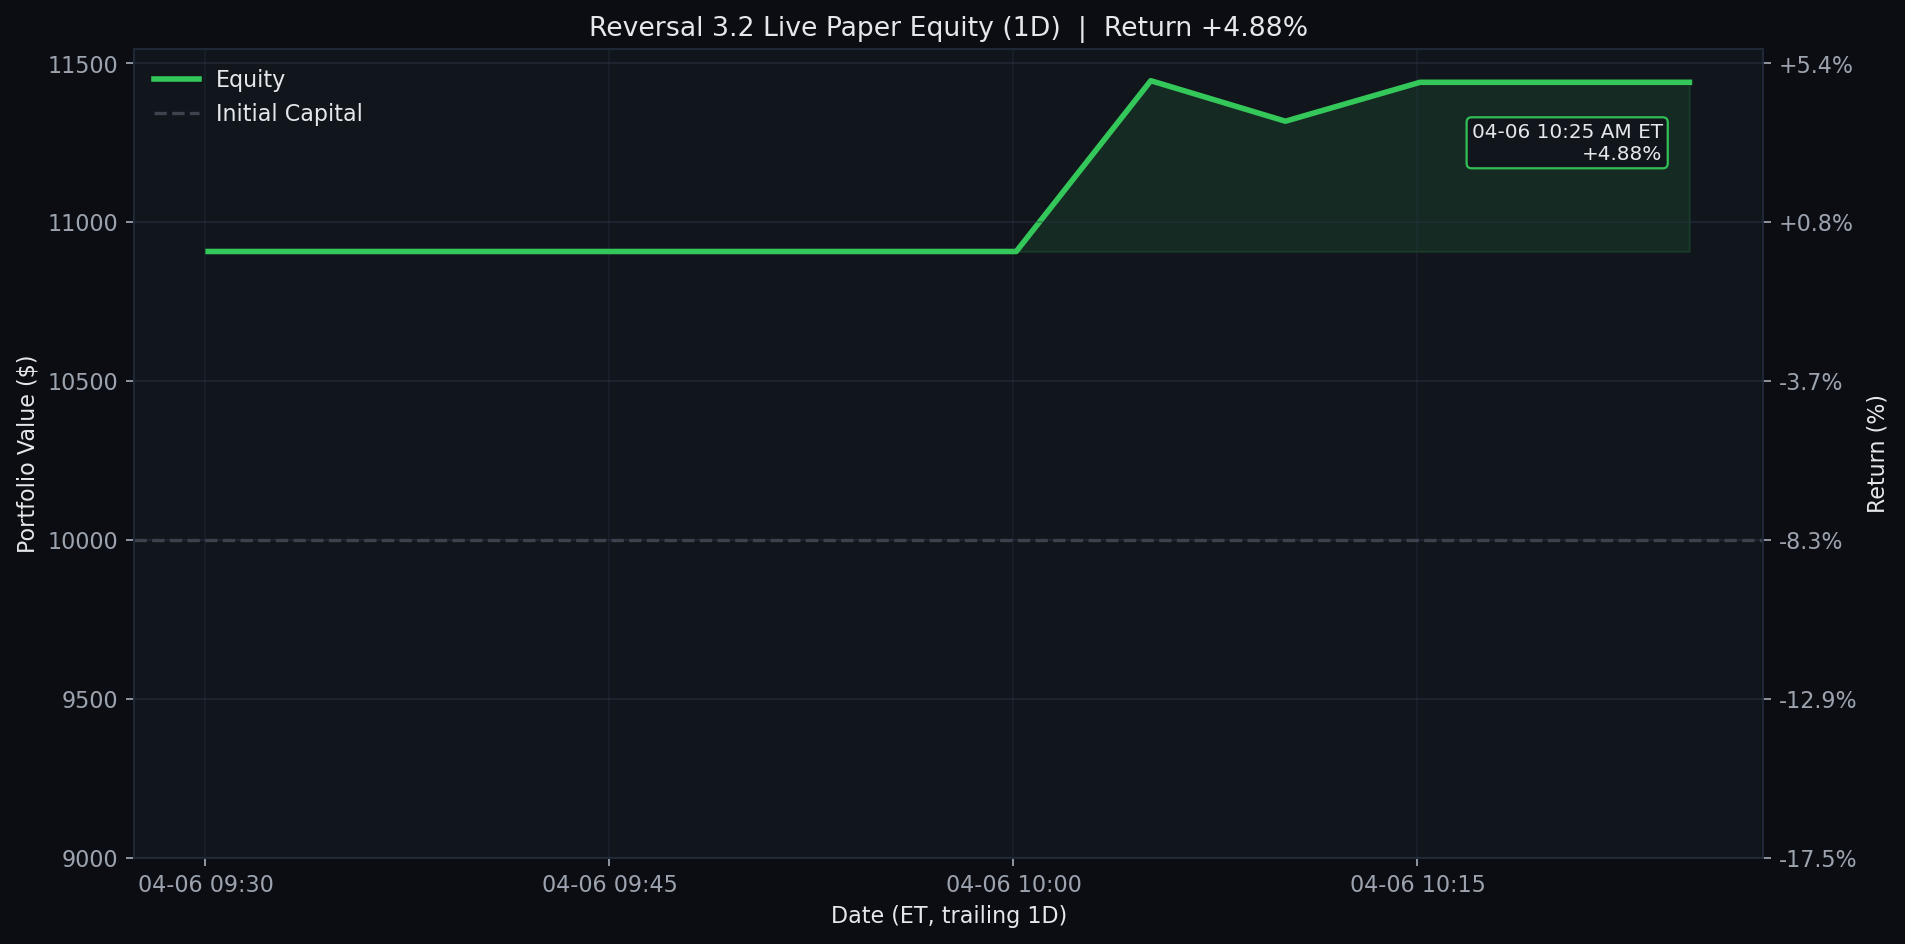
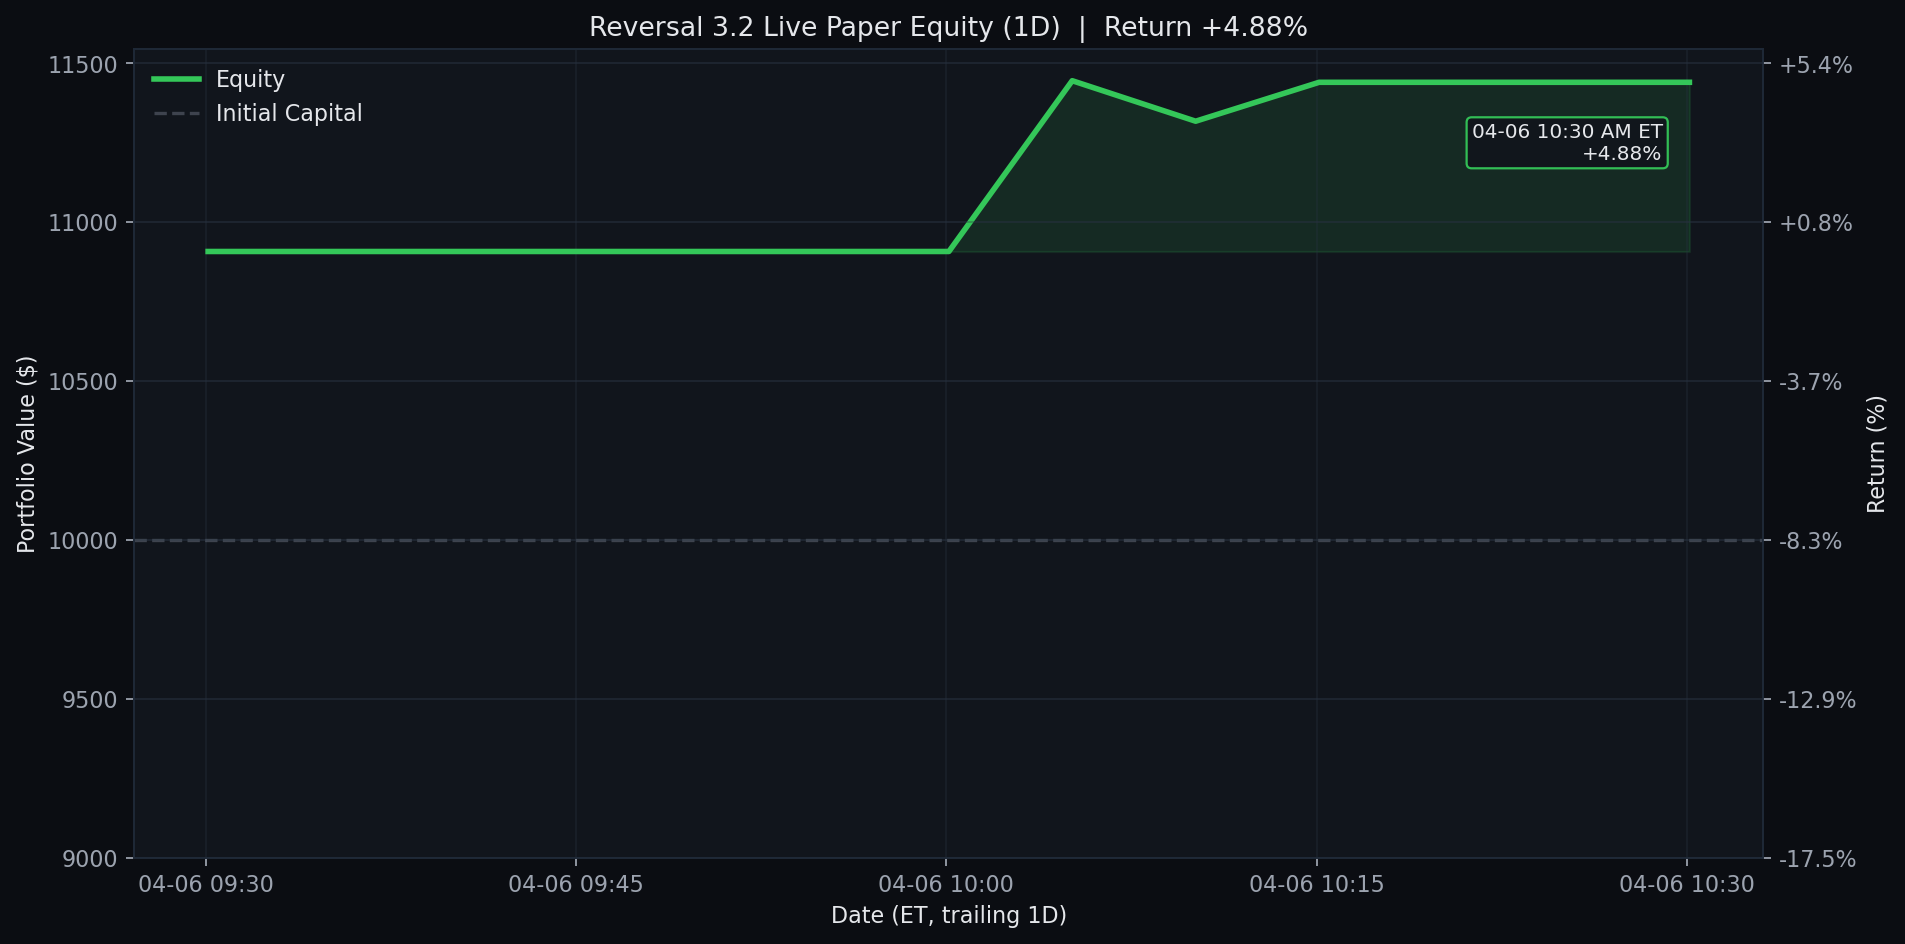
Update Reversal 3.2 live paper test 2026-04-06 10:30 ET

diff --git a/results/reversal_3_2_live/README.md b/results/reversal_3_2_live/README.md
@@ -1,6 +1,6 @@
 # Reversal 3.2 Live Paper Test
 
-Last updated (ET): `2026-04-06 10:25:05 EDT`
+Last updated (ET): `2026-04-06 10:30:05 EDT`
 Last processed slot: `manage_1030`
 
 ## Active Configuration
@@ -40,24 +40,25 @@ ticker    contract_symbol entry_trade_date_et exit_trade_date_et  entry_option_p
 
 ```text
 ticker  success_rate_%  matched_signals  current_drop_%  target_rebound_$  target_price  rolling_sigma_20d_%  call_candidate
-   HON          100.00               24            0.53              0.85        229.09                20.57            True
-  AVGO           89.74               39            0.86              1.90        313.73                41.04            True
-  CDNS           88.89               45            0.51              1.00        278.29                25.28            True
-  CTSH           84.62               39            0.51              0.22         62.44                26.11            True
-  TSLA           83.78               37            0.65              1.65        359.88                42.35            True
-  ASML           82.61               23            1.69             15.56       1310.56                51.28            True
-  CRWD           80.00               40            0.88              2.45        398.07                42.36            True
-  TTWO           80.00               25            1.84              2.57        198.77                26.67            True
-  DDOG           80.00               20            3.25              2.74        119.19                49.88            True
-  FTNT           93.88               49            0.17              0.10         82.49                30.26           False
-  FAST           93.62               47            0.05              0.02         46.29                21.85           False
-  NVDA           92.50               40            0.32              0.39        177.22                36.70           False
+  AVGO           89.74               39            0.93              2.05        313.67                41.04            True
+  CDNS           88.89               45            0.55              1.07        278.26                25.28            True
+  CTSH           83.78               37            0.54              0.24         62.44                26.11            True
+  ASML           82.61               23            1.56             14.41       1311.05                51.28            True
+  CRWD           81.40               43            0.77              2.16        398.20                42.36            True
+  MELI           81.40               43            0.55              6.66       1712.67                39.93            True
+  TTWO           80.77               26            1.79              2.51        198.79                26.67            True
+  DDOG           80.00               20            3.37              2.84        119.14                49.88            True
+  FANG          100.00               29            0.35              0.48        193.68                28.70           False
+   HON          100.00               25            0.41              0.66        229.17                20.57           False
+  FTNT           93.62               47            0.27              0.15         82.46                30.26           False
+  FAST           93.02               43            0.32              0.10         46.26                21.85           False
 ```
 
 ## Recent Events
 
 ```text
                     timestamp_et        slot    event_type                                                                                                                                 detail
+2026-04-06T10:30:05.886948-04:00 manage_1030  slot_skipped                                                                                                        {"reason": "already_processed"}
 2026-04-06T10:25:05.896716-04:00 manage_1030  slot_skipped                                                                                                        {"reason": "already_processed"}
 2026-04-06T10:20:05.891442-04:00 manage_1030          exit {"contract_symbol": "WDC260501C00295000", "pnl": 595.0, "reason": "take_profit_day1_hit_at_scan", "return_pct": 21.7, "ticker": "WDC"}
 2026-04-06T10:10:05.890008-04:00 manage_1000  slot_skipped                                                                                                        {"reason": "already_processed"}
@@ -67,7 +68,6 @@ ticker  success_rate_%  matched_signals  current_drop_%  target_rebound_$  targe
 2026-04-06T09:40:00.944679-04:00 manage_0930  slot_skipped                                                                                                        {"reason": "already_processed"}
 2026-04-06T09:35:05.895013-04:00 manage_0930  slot_skipped                                                                                                        {"reason": "already_processed"}
        2026-04-03T16:00:00-04:00 manage_1600 market_closed                                                                              {"holiday_name": "Good Friday", "reason": "nyse_holiday"}
-2026-04-02T16:00:05.925792-04:00 manage_1600  slot_skipped                                                                                                        {"reason": "already_processed"}
 ```
 
 ## Equity Curves

diff --git a/README.md b/README.md
@@ -3,7 +3,7 @@
 <!-- reversal-3.2-live:start -->
 ## Reversal 3.2 Live Paper Test
 
-- Last updated (ET): `2026-04-06 10:25:05 EDT`
+- Last updated (ET): `2026-04-06 10:30:05 EDT`
 - Equity: `$11,440.00` | Realized: `$1,440.00` | Unrealized: `$0.00` | Open positions: `0`
 - Today closed trades: `1`
 - Current slot: `manage_1030`
